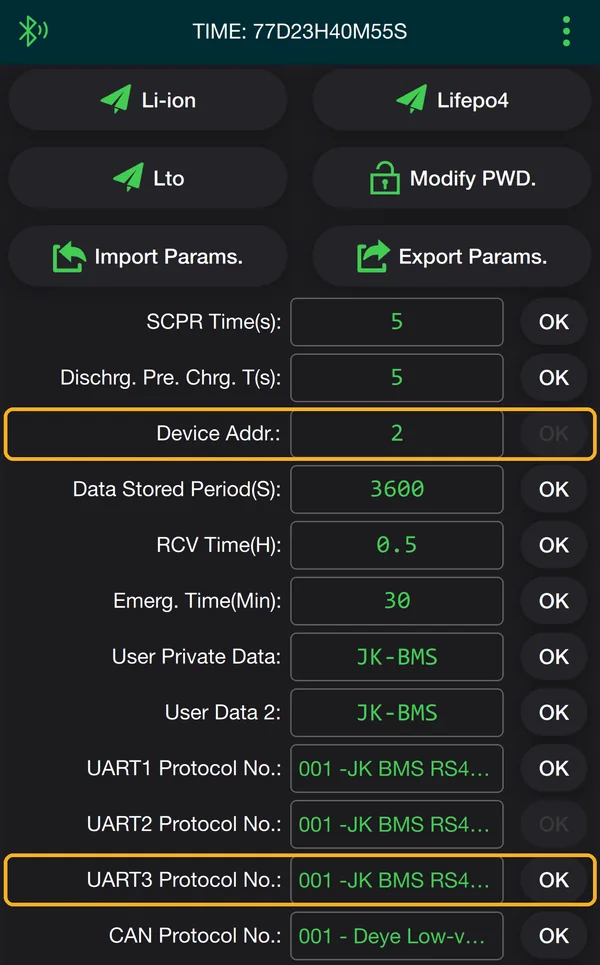
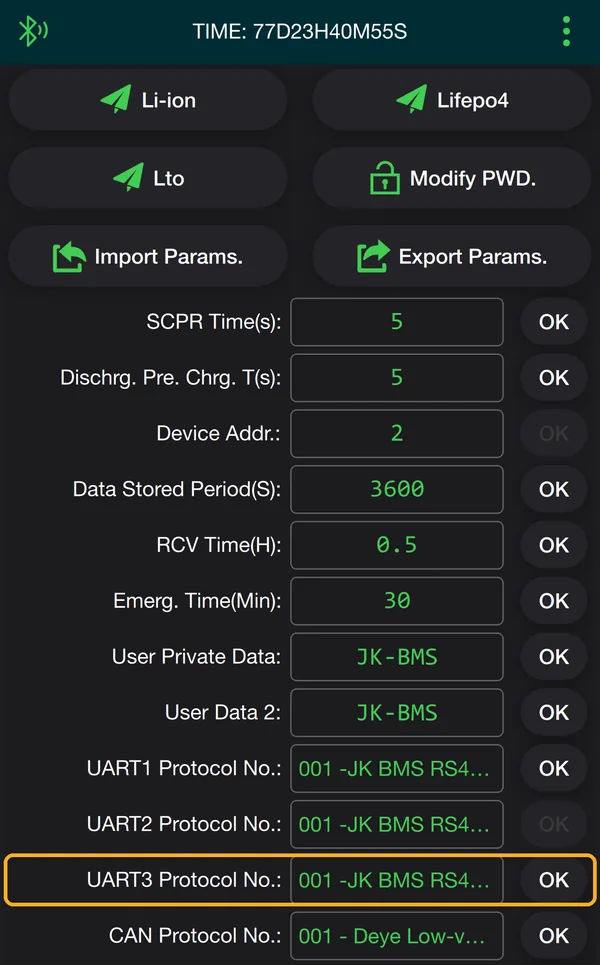
Màn hình JK BMS: bỏ hướng dẫn chỉnh địa chỉ BMS (màn đọc được địa chỉ 0–15)
- Bỏ bước "Device Addr. khác 0", chú thích số 1 trên ảnh app và câu trong mục sự cố
- Ảnh app JK chỉ còn khung dòng UART3 Protocol No.

Changed region(s): [[0.0, 0.4041, 1.0, 0.4974]]

diff --git a/sanpham/lcd-jk/index.html b/sanpham/lcd-jk/index.html
@@ -297,19 +297,17 @@ kbd.k{display:inline-block;min-width:1.7em;padding:0 6px;border:1px solid var(--
         <li>Vào tab <b>Settings</b> (dưới cùng), kéo xuống dòng <b>UART3 Protocol No.</b></li>
         <li>Chạm vào ô của dòng đó → bảng <b>Select UART Protocol</b> hiện ra → chọn <b>001 - JK BMS RS485 Modbus V1.0</b>.</li>
         <li>Bấm <b>OK</b> ở cuối dòng <b>UART3 Protocol No.</b> để lưu.</li>
-        <li>Xem dòng <b>Device Addr.</b>: số phải <b>khác 0</b> (ảnh ví dụ là 2). Nếu đang là 0 → nhắn Zalo để được hướng dẫn.</li>
       </ol>
       <div class="fig">
         <div class="figtag"><span class="n">HÌNH 1</span><span>App JK BMS · tab Settings</span><span class="rule"></span></div>
         <div class="plate annoplate stack">
           <div class="phones">
-            <figure class="appshot"><a class="anno" href="/huongdan/img/lcdjk-jkapp-uart3.webp" target="_blank" rel="noopener"><img src="/huongdan/img/lcdjk-jkapp-uart3.webp" width="600" height="965" alt="App JK BMS tab Settings: dòng Device Addr. là 2 và dòng UART3 Protocol No. đang là 001 JK BMS RS485, có nút OK cuối dòng" loading="lazy"><span class="pin" style="left:4%;top:44.9%">1</span><span class="pin" style="left:4%;top:91.1%">2</span></a><figcaption>Tab <b>Settings</b></figcaption></figure>
-            <figure class="appshot"><a class="anno" href="/huongdan/img/lcdjk-jkapp-chon-001.webp" target="_blank" rel="noopener"><img src="/huongdan/img/lcdjk-jkapp-chon-001.webp" width="600" height="965" alt="Bảng Select UART Protocol trong app JK BMS: chọn dòng 001 JK BMS RS485 Modbus V1.0" loading="lazy"><span class="pin" style="left:3.5%;top:64.6%">3</span></a><figcaption>Bảng <b>Select UART Protocol</b></figcaption></figure>
+            <figure class="appshot"><a class="anno" href="/huongdan/img/lcdjk-jkapp-uart3.webp" target="_blank" rel="noopener"><img src="/huongdan/img/lcdjk-jkapp-uart3.webp" width="600" height="965" alt="App JK BMS tab Settings: dòng UART3 Protocol No. đang là 001 JK BMS RS485, có nút OK cuối dòng" loading="lazy"><span class="pin" style="left:4%;top:91.1%">1</span></a><figcaption>Tab <b>Settings</b></figcaption></figure>
+            <figure class="appshot"><a class="anno" href="/huongdan/img/lcdjk-jkapp-chon-001.webp" target="_blank" rel="noopener"><img src="/huongdan/img/lcdjk-jkapp-chon-001.webp" width="600" height="965" alt="Bảng Select UART Protocol trong app JK BMS: chọn dòng 001 JK BMS RS485 Modbus V1.0" loading="lazy"><span class="pin" style="left:3.5%;top:64.6%">2</span></a><figcaption>Bảng <b>Select UART Protocol</b></figcaption></figure>
           </div>
           <ol class="legend">
-            <li><span class="pin">1</span><div><b>Device Addr.</b> phải <b>khác 0</b>. Màn tự tìm địa chỉ — không cần nhập gì thêm.</div></li>
-            <li><span class="pin">2</span><div><b>UART3 Protocol No.</b>: chạm ô để chọn, chọn xong bấm <b>OK</b> cuối dòng.</div></li>
-            <li><span class="pin">3</span><div>Chọn <b>001 - JK BMS RS485 Modbus V1.0</b>.</div></li>
+            <li><span class="pin">1</span><div><b>UART3 Protocol No.</b>: chạm ô để chọn, chọn xong bấm <b>OK</b> cuối dòng.</div></li>
+            <li><span class="pin">2</span><div>Chọn <b>001 - JK BMS RS485 Modbus V1.0</b>.</div></li>
           </ol>
         </div>
       </div>
@@ -412,7 +410,7 @@ kbd.k{display:inline-block;min-width:1.7em;padding:0 6px;border:1px solid var(--
       <div class="sechd"><div class="st">Bấm vào từng mục để xem</div><h2>Sự cố thường gặp</h2></div>
       <div class="faqs">
       <details class="faq"><summary>Cắm dây mà màn không sáng</summary><div>Cắm lại <b>chặt cả 2 đầu dây</b>: giắc mặt sau màn và cổng UART 6 chân của BMS. Kiểm tra BMS đang bật (app JK nối được pin).</div></details>
-      <details class="faq"><summary>Thanh trên báo “CHƯA THẤY BMS”, các ô hiện “--”</summary><div><p>Làm lại <a href="#b1">bước 1</a>: dòng <b>UART3 Protocol No.</b> phải là <b>001 - JK BMS RS485 Modbus V1.0</b> và đã bấm <b>OK</b>; <b>Device Addr.</b> khác 0.</p><p>Vẫn chưa được → <b>tắt BMS rồi bật lại</b>, hoặc giữ <kbd class="k">MENU</kbd> 2 giây → tab <b>Hệ thống</b> → <b>Dò lại BMS</b>.</p></div></details>
+      <details class="faq"><summary>Thanh trên báo “CHƯA THẤY BMS”, các ô hiện “--”</summary><div><p>Làm lại <a href="#b1">bước 1</a>: dòng <b>UART3 Protocol No.</b> phải là <b>001 - JK BMS RS485 Modbus V1.0</b> và đã bấm <b>OK</b>.</p><p>Vẫn chưa được → <b>tắt BMS rồi bật lại</b>, hoặc giữ <kbd class="k">MENU</kbd> 2 giây → tab <b>Hệ thống</b> → <b>Dò lại BMS</b>.</p></div></details>
       <details class="faq"><summary>Thanh trên báo “MẤT BMS” màu đỏ</summary><div>Máy đang đọc thì mất tín hiệu từ BMS — thường do <b>dây lỏng</b>. Cắm lại chặt 2 đầu dây; có tín hiệu lại là máy tự đọc tiếp.</div></details>
       <details class="faq"><summary>Điện thoại không thấy WiFi <code>SC-LCDJK-…</code></summary><div>Chờ khoảng 30 giây sau khi màn sáng rồi quét lại WiFi. Đứng gần màn hình.</div></details>
       <details class="faq"><summary>Trang <code>192.168.4.1</code> không mở</summary><div>Tắt <b>dữ liệu di động (4G)</b> trong lúc đang nối WiFi <code>SC-LCDJK-…</code>, rồi gõ lại <code>192.168.4.1</code> trên trình duyệt.</div></details>
